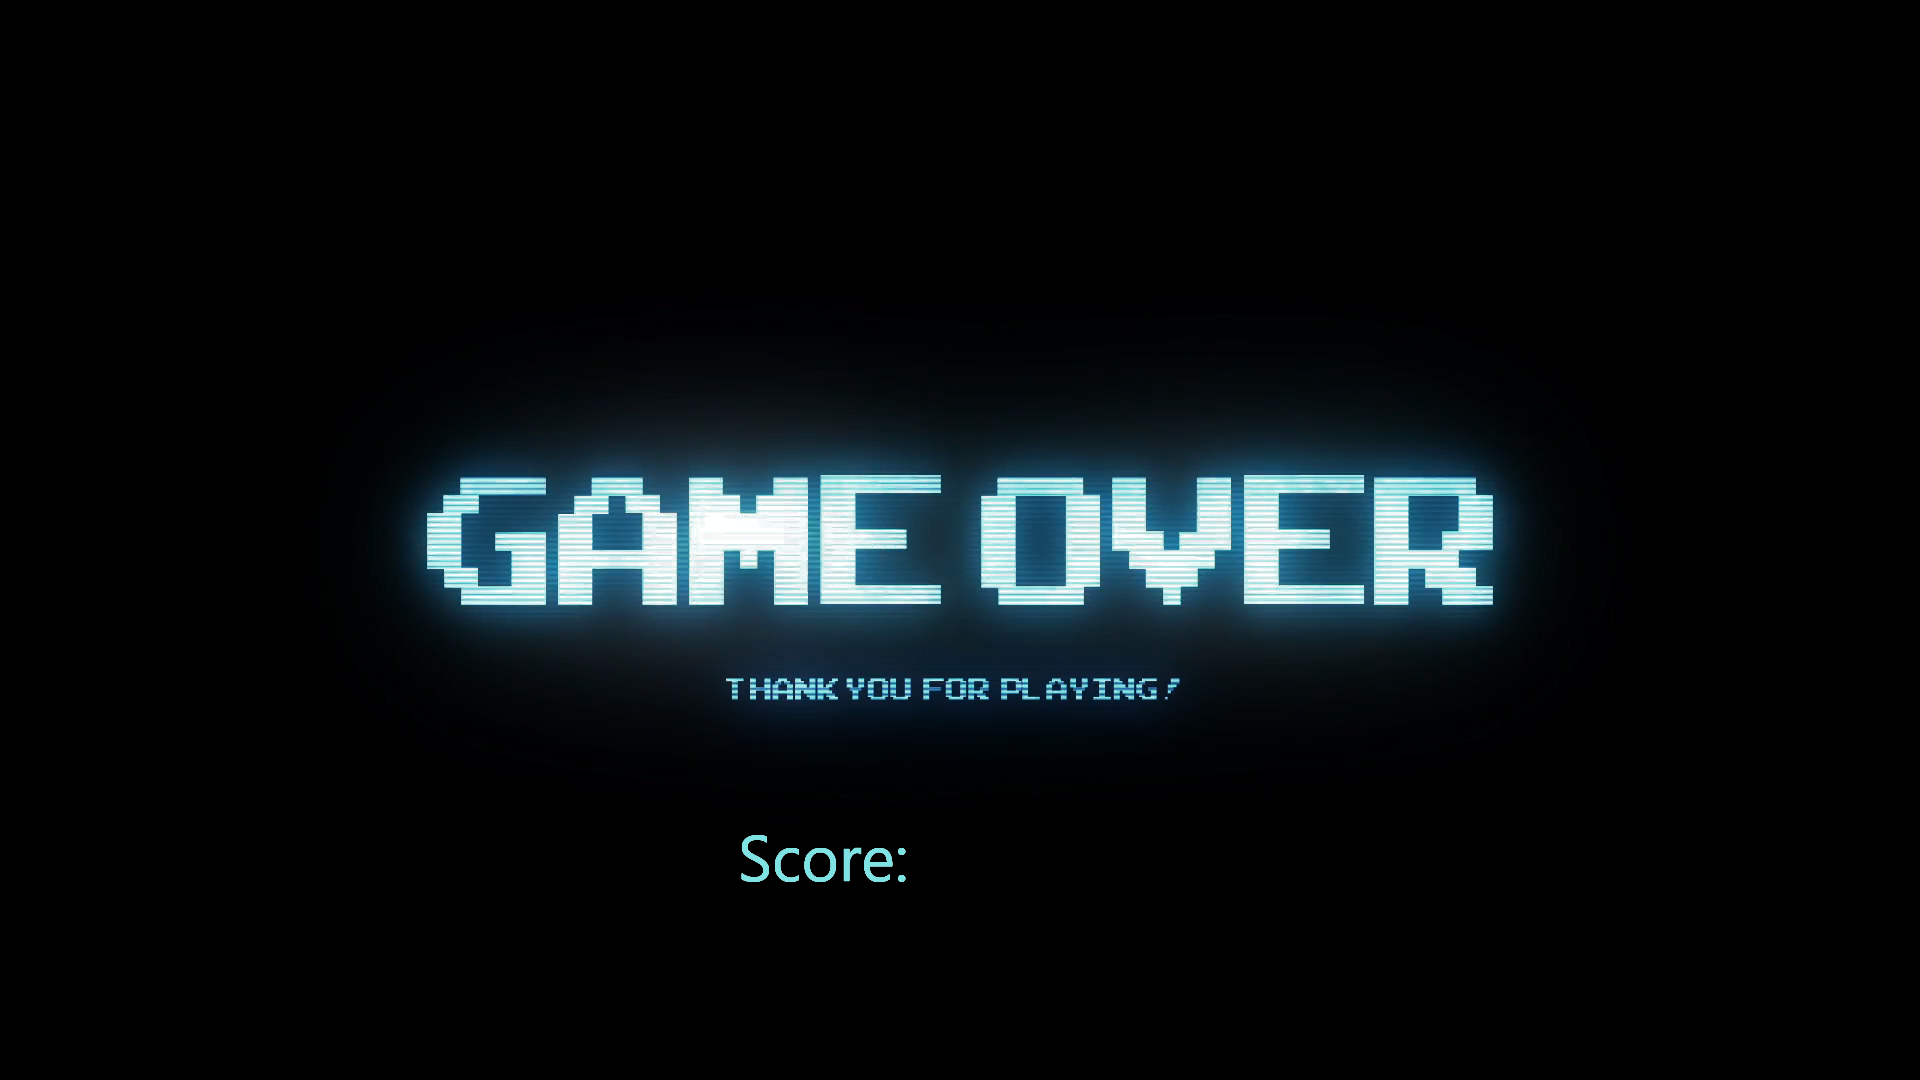
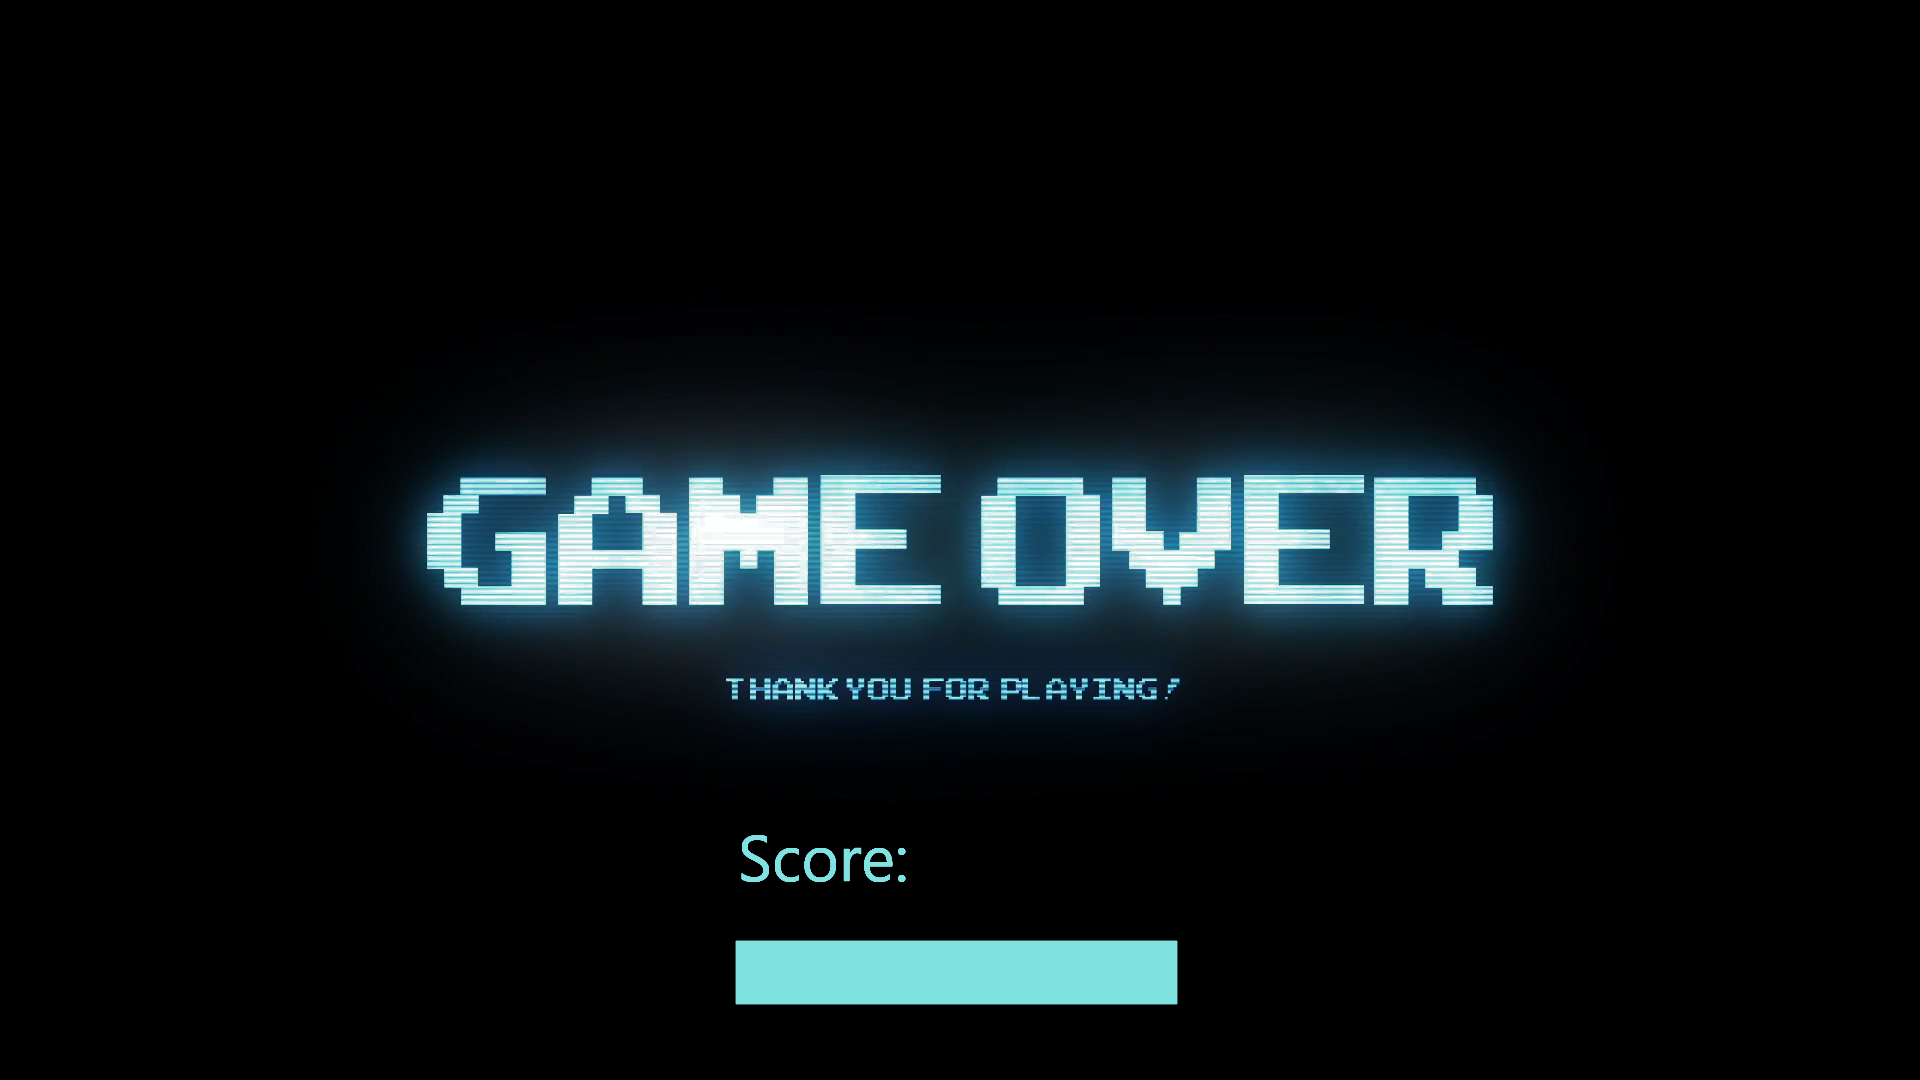
Finished tutorial

Changed region(s): [[0.375, 0.8556, 0.625, 0.9472]]

diff --git a/GalagaLite/GalagaLite/MainPage.xaml.cs b/GalagaLite/GalagaLite/MainPage.xaml.cs
@@ -231,17 +231,20 @@ namespace GalagaLite
         {
             if (RoundEnded == true)
             {
-                GameState = 0;
-                RoundEnded = false;
-                countdown = 5;
+                if( ((float)e.GetPosition(GameCanvas).X > 735 * scaleWidth && (float)e.GetPosition(GameCanvas).X < 1176 * scaleWidth) && (float)e.GetPosition(GameCanvas).Y > 940 * scaleHeight && (float)e.GetPosition(GameCanvas).Y < 1005 * scaleHeight)
+                {
+                    GameState = 0;
+                    RoundEnded = false;
+                    countdown = 5;
 
-                //Stop Enemy Timer
-                EnemyTimer.Stop();
-                enemyXPOS.Clear();
-                enemyYPOS.Clear();
-                enemySHIP.Clear();
-                enemyDIR.Clear();
-                MyScore = 0;
+                    //Stop Enemy Timer
+                    EnemyTimer.Stop();
+                    enemyXPOS.Clear();
+                    enemyYPOS.Clear();
+                    enemySHIP.Clear();
+                    enemyDIR.Clear();
+                    MyScore = 0;
+                }
 
             }
             else
